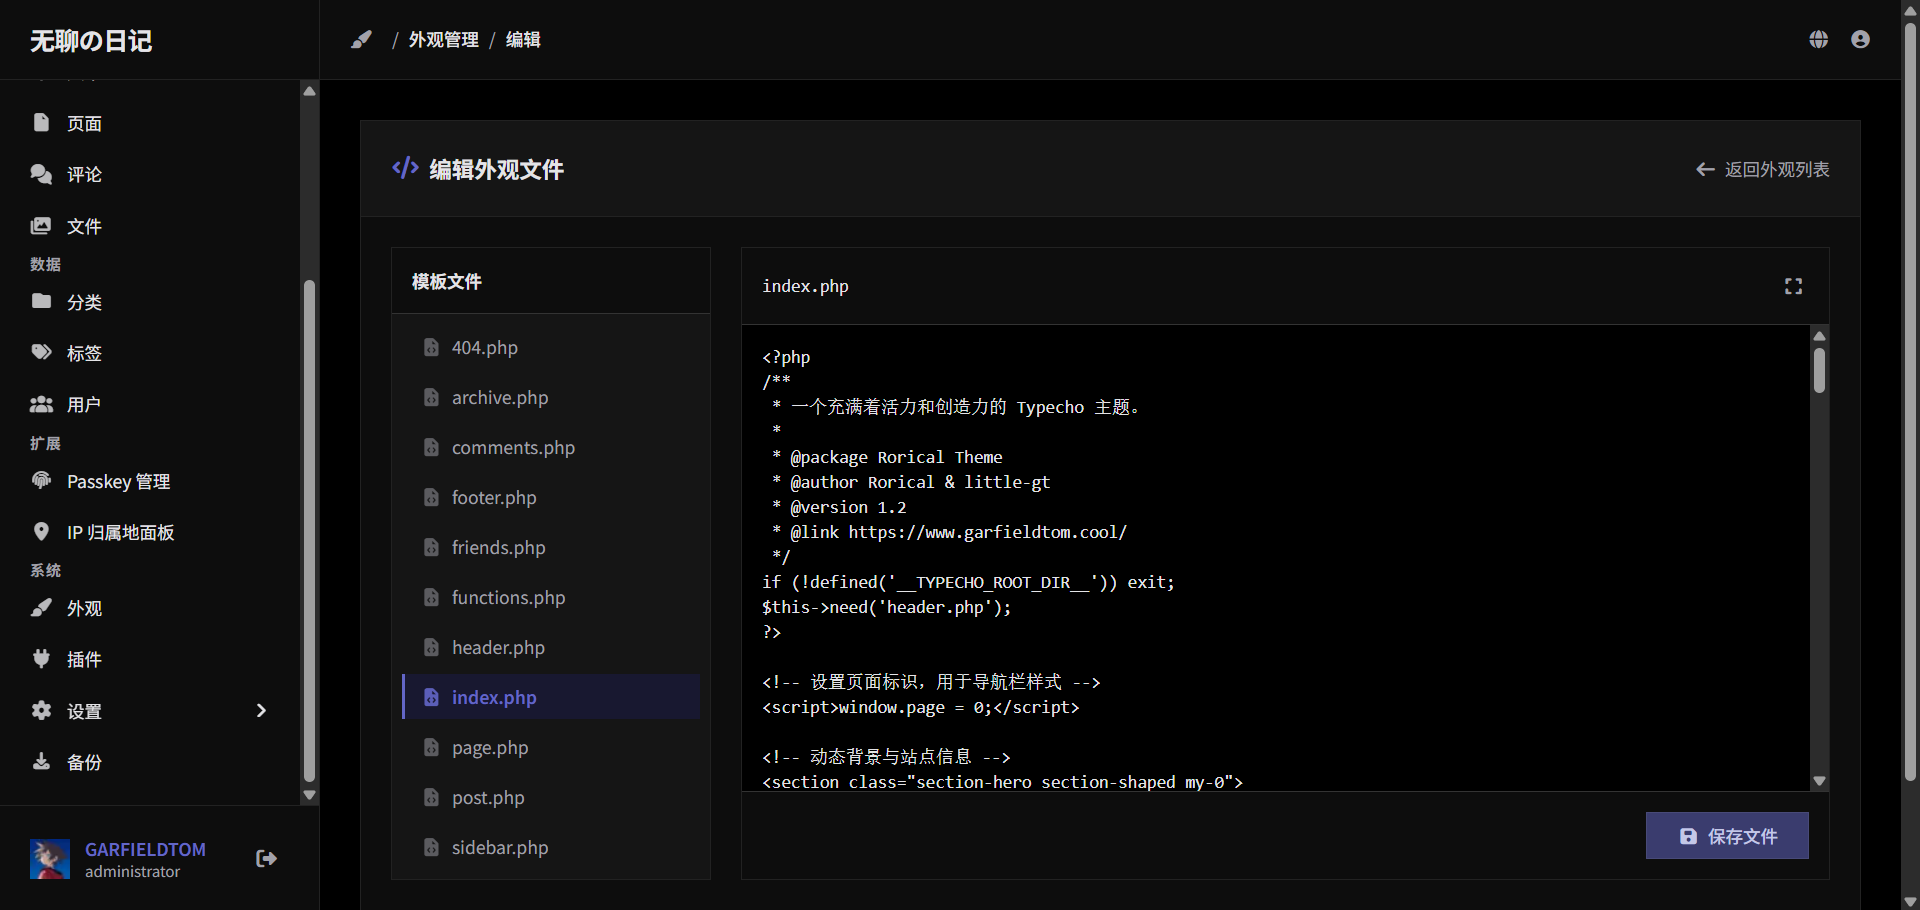
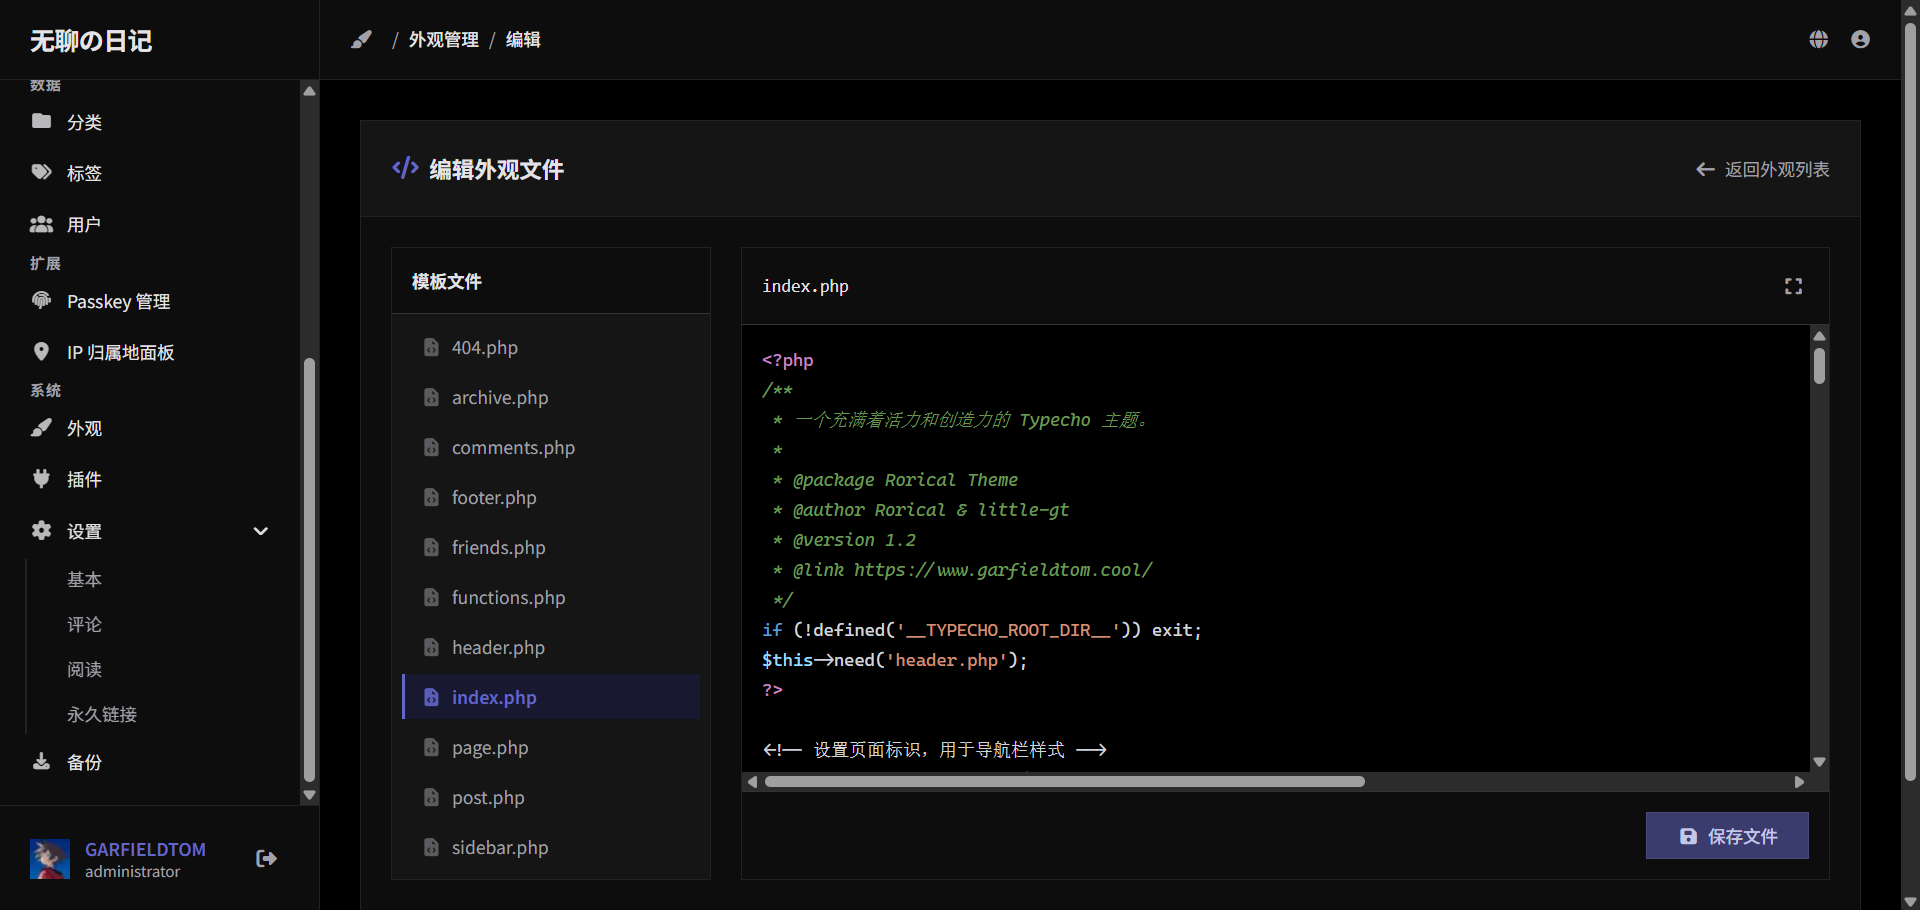
【优化】优化主题代码编辑器体验
1. 代码编辑器支持代码高亮
2. 修复全屏模式下点击保存，弹窗层级不够的问题

diff --git a/admin/theme-editor.php b/admin/theme-editor.php
@@ -75,8 +75,11 @@ include 'menu.php';
                                 </div>
                             </div>
                             
-                            <form method="post" name="theme" id="theme" action="<?php $security->index('/action/themes-edit'); ?>" class="flex-1 flex flex-col p-0 m-0">
-                                <textarea name="content" id="content" class="flex-1 w-full p-4 font-mono text-sm bg-gray-900 text-gray-200 border-none resize-none focus:outline-none" spellcheck="false" <?php if (!$files->currentIsWriteable()): ?>readonly<?php endif; ?>><?php echo $files->currentContent(); ?></textarea>
+                            <form method="post" name="theme" id="theme" action="<?php $security->index('/action/themes-edit'); ?>" class="flex-1 flex flex-col p-0 m-0 min-h-0">
+                                <div class="booadmin-code-wrap flex-1 min-h-0 overflow-hidden">
+                                    <pre id="php-highlight-backdrop" class="booadmin-code-layer p-4" aria-hidden="true"><code id="php-highlight-code"></code></pre>
+                                    <textarea name="content" id="content" class="booadmin-code-layer p-4 focus:outline-none" spellcheck="false" wrap="off" <?php if (!$files->currentIsWriteable()): ?>readonly<?php endif; ?>><?php echo $files->currentContent(); ?></textarea>
+                                </div>
                                 
                                 <div class="p-4 border-t border-gray-200 bg-gray-100 flex justify-end">
                                     <?php if ($files->currentIsWriteable()): ?>
@@ -107,15 +110,99 @@ include 'menu.php';
 include 'common-js.php';
 ?>
 
+<style>
+/* 主题编辑器：轻量 PHP 高亮（紧急快速编辑用，无外部依赖） */
+.booadmin-code-wrap {
+    position: relative;
+    background: #1f2937;
+}
+@media (prefers-color-scheme: dark) {
+    .booadmin-code-wrap { background: var(--booadmin-bg); }
+}
+.booadmin-code-layer {
+    font-family: ui-monospace, SFMono-Regular, Menlo, Monaco, Consolas, "Liberation Mono", monospace;
+    font-size: 0.875rem;
+    line-height: 1.5rem;
+    tab-size: 4;
+    white-space: pre;
+    overflow: auto;
+    box-sizing: border-box;
+    margin: 0;
+    border: 0;
+}
+/* dark.css 对 textarea/pre/code 用了 !important，此处必须同级覆盖，否则暗色下出现双份文字与底色块 */
+#php-highlight-backdrop {
+    position: absolute;
+    inset: 0;
+    overflow: hidden;
+    background: transparent !important;
+    color: #d1d5db !important;
+    pointer-events: none;
+    z-index: 0;
+}
+#php-highlight-code {
+    display: block;
+    padding: 0;
+    background: transparent !important;
+    color: inherit !important;
+}
+#content.booadmin-code-layer {
+    position: absolute;
+    inset: 0;
+    width: 100%;
+    height: 100%;
+    background: transparent !important;
+    border: 0 !important;
+    line-height: 1.5rem !important;
+    color: #d1d5db !important;
+    caret-color: #f9fafb !important;
+    resize: none;
+    z-index: 1;
+}
+/* 高亮就绪后才隐藏原生文字；脚本异常时退化为普通深色编辑器 */
+.booadmin-code-wrap.php-highlight-ready #content.booadmin-code-layer {
+    color: transparent !important;
+    -webkit-text-fill-color: transparent !important;
+}
+.booadmin-code-wrap.php-highlight-ready #content.booadmin-code-layer::selection {
+    background: rgba(59, 130, 246, 0.45);
+}
+.booadmin-code-layer .tok-tag { color: #c586c0; }
+.booadmin-code-layer .tok-key { color: #569cd6; }
+.booadmin-code-layer .tok-var { color: #9cdcfe; }
+.booadmin-code-layer .tok-str { color: #ce9178; }
+.booadmin-code-layer .tok-com { color: #6a9955; font-style: italic; }
+.booadmin-code-layer .tok-num { color: #b5cea8; }
+</style>
+
 <script>
+// 原生全屏会把元素提升到浏览器顶层，普通 z-index 无法覆盖；
+// 因此全屏期间把共享弹窗临时移入全屏元素，退出全屏后移回 body。
+const SHARED_MODAL_ID = '__booadmin_shared_modal__';
+
+function currentFullscreenElement() {
+    return document.fullscreenElement || document.webkitFullscreenElement || document.mozFullScreenElement || null;
+}
+
+function syncModalLayer() {
+    const modal = document.getElementById(SHARED_MODAL_ID);
+    if (!modal) return;
+    const fs = currentFullscreenElement();
+    if (fs && modal.parentElement !== fs) {
+        fs.appendChild(modal);
+    } else if (!fs && modal.parentElement !== document.body) {
+        document.body.appendChild(modal);
+    }
+}
+
 // 全屏切换功能
 const fullscreenBtn = document.getElementById('fullscreen-btn');
 const editorContainer = document.getElementById('editor-container');
 
 fullscreenBtn.addEventListener('click', function() {
-    const isEditorFullscreen = document.fullscreenElement === editorContainer;
+    const fs = currentFullscreenElement();
 
-    if (!isEditorFullscreen) {
+    if (fs !== editorContainer) {
         if (editorContainer.requestFullscreen) {
             editorContainer.requestFullscreen();
         } else if (editorContainer.mozRequestFullScreen) {
@@ -125,29 +212,26 @@ fullscreenBtn.addEventListener('click', function() {
         } else if (editorContainer.msRequestFullscreen) {
             editorContainer.msRequestFullscreen();
         }
-        fullscreenBtn.innerHTML = '<i class="fas fa-compress"></i>';
-    } else {
-        if (document.exitFullscreen) {
-            document.exitFullscreen();
-        } else if (document.mozCancelFullScreen) {
-            document.mozCancelFullScreen();
-        } else if (document.webkitExitFullscreen) {
-            document.webkitExitFullscreen();
-        } else if (document.msExitFullscreen) {
-            document.msExitFullscreen();
-        }
-        fullscreenBtn.innerHTML = '<i class="fas fa-expand"></i>';
+    } else if (document.exitFullscreen) {
+        document.exitFullscreen();
+    } else if (document.mozCancelFullScreen) {
+        document.mozCancelFullScreen();
+    } else if (document.webkitExitFullscreen) {
+        document.webkitExitFullscreen();
+    } else if (document.msExitFullscreen) {
+        document.msExitFullscreen();
     }
 });
 
-// 监听全屏状态变化
-document.addEventListener('fullscreenchange', function() {
-    if (document.fullscreenElement === editorContainer) {
-        fullscreenBtn.innerHTML = '<i class="fas fa-compress"></i>';
-    } else {
-        fullscreenBtn.innerHTML = '<i class="fas fa-expand"></i>';
-    }
-});
+// 监听全屏状态变化：同步按钮图标与弹窗层级
+function onFullscreenChange() {
+    const active = currentFullscreenElement() === editorContainer;
+    fullscreenBtn.innerHTML = active ? '<i class="fas fa-compress"></i>' : '<i class="fas fa-expand"></i>';
+    syncModalLayer();
+}
+document.addEventListener('fullscreenchange', onFullscreenChange);
+document.addEventListener('webkitfullscreenchange', onFullscreenChange);
+document.addEventListener('mozfullscreenchange', onFullscreenChange);
 
 // 保存确认提示框
 const saveBtn = document.getElementById('save-btn');
@@ -165,7 +249,60 @@ if (saveBtn) {
                 }
             }
         });
+        syncModalLayer();
     });
+}
+
+// ── 轻量 PHP 高亮：textarea 文字透明，背后 pre 同步渲染着色文本 ──
+const contentEl = document.getElementById('content');
+const highlightEl = document.getElementById('php-highlight-code');
+const backdropEl = document.getElementById('php-highlight-backdrop');
+
+function escapeHtml(text) {
+    return text.replace(/&/g, '&amp;').replace(/</g, '&lt;').replace(/>/g, '&gt;');
+}
+
+const PHP_TOKEN_RE = /(\x3c\x3fphp\b|\x3c\x3f=|\x3f>)|('(?:\\.|[^'\\])*'|"(?:\\.|[^"\\])*")|(\/\*[\s\S]*?\*\/|\/\/[^\n]*|#[^\n]*)|(\$[A-Za-z_]\w*)|\b(abstract|and|array|as|break|case|catch|class|clone|const|continue|declare|default|die|do|echo|else|elseif|empty|enddeclare|endfor|endforeach|endif|endswitch|endwhile|extends|final|finally|fn|for|foreach|function|global|goto|if|implements|include|include_once|instanceof|insteadof|interface|isset|list|match|namespace|new|or|print|private|protected|public|readonly|require|require_once|return|static|switch|throw|trait|try|unset|use|var|while|xor|yield|true|false|null)\b|(\b\d+(?:\.\d+)?\b)/gi;
+
+function highlightPhp(source) {
+    let out = '';
+    let inPhp = false;
+    let last = 0;
+    let match;
+    PHP_TOKEN_RE.lastIndex = 0;
+    while ((match = PHP_TOKEN_RE.exec(source)) !== null) {
+        out += escapeHtml(source.slice(last, match.index));
+        const text = match[0];
+        let cls = '';
+        if (match[1]) {
+            cls = 'tok-tag';
+            inPhp = /^<\?/.test(text);
+        } else if (inPhp) {
+            if (match[2]) cls = 'tok-str';
+            else if (match[3]) cls = 'tok-com';
+            else if (match[4]) cls = 'tok-var';
+            else if (match[5]) cls = 'tok-key';
+            else if (match[6]) cls = 'tok-num';
+        }
+        out += cls ? '<span class="' + cls + '">' + escapeHtml(text) + '</span>' : escapeHtml(text);
+        last = PHP_TOKEN_RE.lastIndex;
+    }
+    return out + escapeHtml(source.slice(last));
+}
+
+function syncHighlight() {
+    if (!contentEl || !highlightEl || !backdropEl) return;
+    const value = contentEl.value;
+    highlightEl.innerHTML = highlightPhp(value) + (value.endsWith('\n') ? '\n' : '');
+    backdropEl.scrollTop = contentEl.scrollTop;
+    backdropEl.scrollLeft = contentEl.scrollLeft;
+    contentEl.parentElement.classList.add('php-highlight-ready');
+}
+
+if (contentEl) {
+    contentEl.addEventListener('input', syncHighlight);
+    contentEl.addEventListener('scroll', syncHighlight);
+    syncHighlight();
 }
 </script>
 

diff --git a/admin/common.php b/admin/common.php
@@ -4,7 +4,7 @@ if (!defined('__DIR__')) {
 }
 
 define('__TYPECHO_ADMIN__', true);
-define('BOOADMIN_VERSION', '1.3.7');
+define('BOOADMIN_VERSION', '1.3.8.1');
 
 /** 载入配置文件 */
 if (!defined('__TYPECHO_ROOT_DIR__') && !@include_once __DIR__ . '/../config.inc.php') {

diff --git a/README.JA.md b/README.JA.md
@@ -6,7 +6,7 @@
 
 TailwindCSS を用いて再構築された、Typecho 向けのモダンな管理テーマです。Typecho 1.3.0 に完全対応しており、GARFIELDTOM'S NEST CDN によるリソース配信で、安定した高效な読み込み体験を提供します。
 
-![BooAdmin](https://img.shields.io/badge/BooAdmin-v1.3.7-blue?style=for-the-badge)
+![BooAdmin](https://img.shields.io/badge/BooAdmin-v1.3.8--PRE1-blue?style=for-the-badge)
 ![License](https://img.shields.io/badge/License-GPLv3-blue?style=for-the-badge)
 ![LTS](https://img.shields.io/badge/Status-Stable-blue?style=for-the-badge)
 

diff --git a/README.md b/README.md
@@ -6,7 +6,7 @@
 
 一款使用 TailwindCSS 精心重构的 Typecho 现代化后台主题。完全支持 Typecho 1.3.0，采用 GARFIELDTOM'S NEST CDN 进行资源加速分发，提供稳定且高效的加载体验。
 
-![BooAdmin](https://img.shields.io/badge/BooAdmin-v1.3.7-blue?style=for-the-badge)
+![BooAdmin](https://img.shields.io/badge/BooAdmin-v1.3.8--PRE1-blue?style=for-the-badge)
 ![License](https://img.shields.io/badge/License-GPLv3-blue?style=for-the-badge)
 ![LTS](https://img.shields.io/badge/Status-Stable-blue?style=for-the-badge)
 

diff --git a/README.EN.md b/README.EN.md
@@ -6,7 +6,7 @@
 
 A modernized Typecho admin theme rebuilt with TailwindCSS. Fully compatible with Typecho 1.3.0, and accelerated via GARFIELDTOM'S NEST CDN for stable and efficient resource delivery.
 
-![BooAdmin](https://img.shields.io/badge/BooAdmin-v1.3.7-blue?style=for-the-badge)
+![BooAdmin](https://img.shields.io/badge/BooAdmin-v1.3.8--PRE1-blue?style=for-the-badge)
 ![License](https://img.shields.io/badge/License-GPLv3-blue?style=for-the-badge)
 ![LTS](https://img.shields.io/badge/Status-Stable-blue?style=for-the-badge)
 
